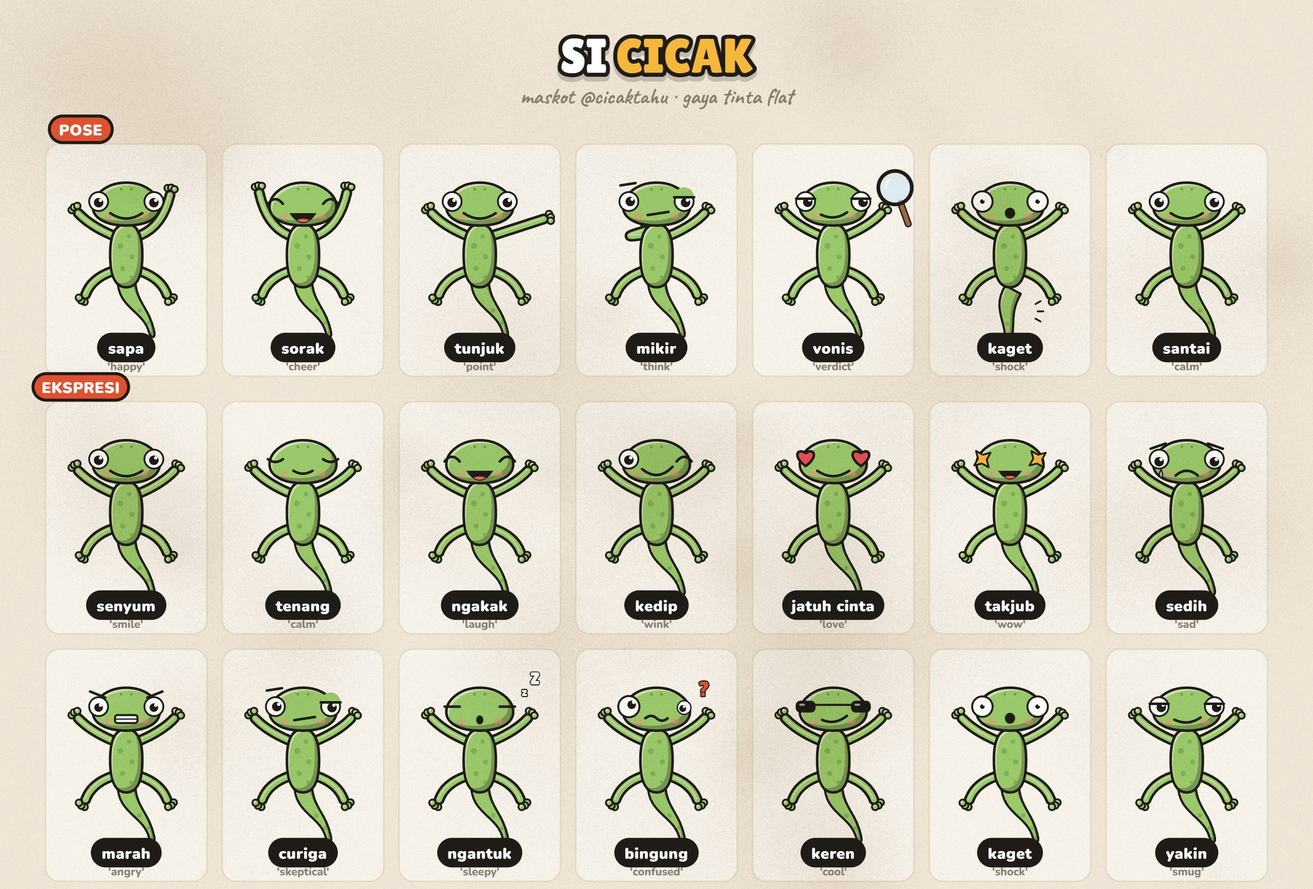
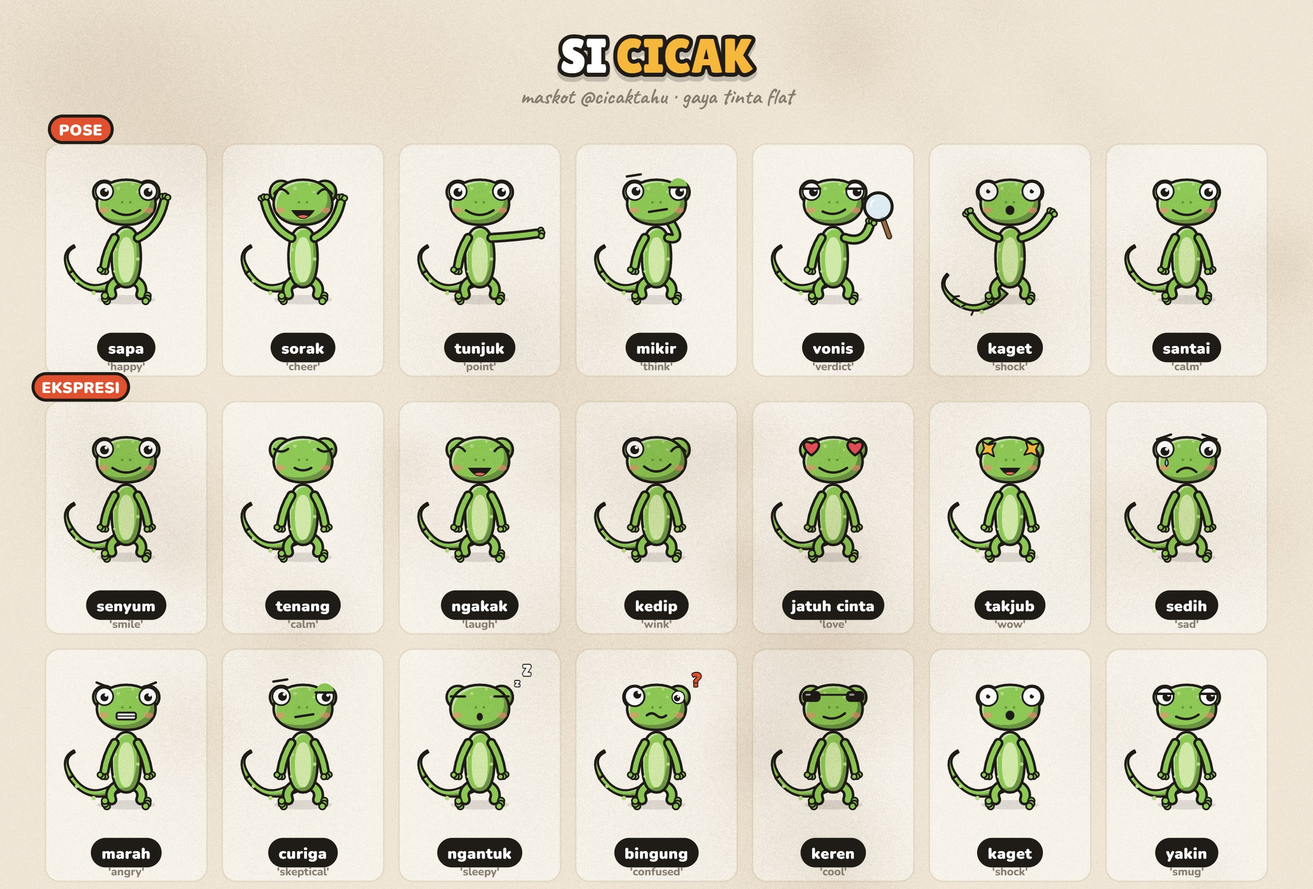
Redraw Si Tikus and Si Cicak after the new model sheets
Si Tikus: three-quarter head with a long snout, round black glasses, big ears, a slim build in a dark
suit with a white shirt and open collar (eksekutif is now the default outfit), black shoes and a tail
curling to the left. No necktie, as channels/tikus/RULES.md requires, although the reference shows one.
Si Cicak: an upright gecko facing the viewer, big eyes bulging from the sides of a round head, a wide
smile, a lighter belly, round toe pads and a long spotted tail; rot still turns it onto a wall.
Same poses, faces and parameters, so every topic renders unchanged. docs/mascots/*.png are the
reference sheets; the .jpg sheets, avatar and banner are regenerated by make_brand.py.

diff --git a/engine/tikus.js b/engine/tikus.js
@@ -1,24 +1,26 @@
-// Si Tikus: mascot of the politics & finance channel, drawn like a newspaper's editorial cartoon: a grey mouse
-// with grown-up proportions, thin navy lines, halftone-dot shading like cheap newsprint, and the look of a news
-// analyst (rolled-up shirt sleeves, glasses, a pen in the pocket). No necktie by default: a mouse in a suit and
-// tie echoes the "tikus berdasi" (corrupt official) meme, see channels/tikus/RULES.md.
+// Si Tikus: mascot of the politics & finance channel, a grey news-analyst mouse after the model sheet in
+// docs/mascots/tikus.png: a long pointed snout seen three-quarters to the right, big round ears, round black
+// glasses, a slim build in a dark suit, a long pink tail curling out to the left. Drawn like an editorial cartoon:
+// flat colours, halftone-dot shading, thin dark lines. Never a necktie: a mouse in a suit and tie echoes the
+// "tikus berdasi" (corrupt official) meme, see channels/tikus/RULES.md.
 //   tikus(x, y, s, pose, t, rot = 0, walk = null, faceKind = null, outfit = MOUSE.outfit)
-//   same poses and faces as cicak(); outfit: 'analis' (default: rolled-up shirt, glasses, pen) | 'reporter'
-//   (analis + PERS card on a lanyard) | 'profesor' (knitted vest over the shirt) | 'eksekutif' (blazer, open
-//   collar, still no tie) | 'kacamata' (glasses only) | 'none'
-// (0, 0) is the middle of the body; the feet are at y ~135, the ears reach y ~-222.
+//   same poses and faces as cicak(); outfit: 'eksekutif' (default: dark suit, white shirt, open collar, no tie)
+//   | 'reporter' (the suit plus a PERS card on a lanyard) | 'analis' (rolled-up shirt sleeves, pen in the pocket)
+//   | 'profesor' (knitted vest over the shirt) | 'kacamata' (glasses only) | 'none'
+// (0, 0) is the middle of the body; the feet are at y ~135, the ears reach y ~-236.
 
 const MOUSE = {
-  fur: '#A3A7B2', furLo: '#7E8391', muzzle: '#ECE8E0', pink: '#E7A7B0', nose: '#2A2F3F', line: '#1F2A44',
-  shirt: '#C9DBEF', shirtLo: '#9FB8D6', vest: '#D6A651', blazer: '#2E3B63', pen: '#C8312B', tail: '#C9A3A8',
-  outfit: 'analis',
+  fur: '#9A9DA6', furLo: '#7C7F89', muzzle: '#D2CEC6', pink: '#EFA3B1', nose: '#23252E', line: '#1E2130',
+  shirt: '#C9DBEF', shirtLo: '#9FB8D6', white: '#F4F3EF', suit: '#2C2F38', suitLo: '#3B3F4B', shoe: '#1B1C22',
+  vest: '#D6A651', pen: '#C8312B', tail: '#E6A3AE',
+  outfit: 'eksekutif',
 };
 
 // halftone dots for the shadow side (identical defs repeat harmlessly)
 const tikusDefs = () => `<defs><pattern id="tkDots" patternUnits="userSpaceOnUse" width="8" height="8" patternTransform="rotate(30)">` +
   `<circle cx="4" cy="4" r="1.9" fill="${MOUSE.line}" opacity="0.42"/></pattern></defs>`;
 
-// a shape in the editorial look: flat colour, halftone dots on the side away from the light, thin navy outline
+// a shape in the editorial look: flat colour, halftone dots on the side away from the light, thin dark outline
 function tkShape(d, fill, { depth = 10, w = 4.5, rot = 0 } = {}) {
   const id = `tk${VOL_N++}`, a = (-135 - rot) * Math.PI / 180, lx = Math.cos(a) * depth * 1.41, ly = Math.sin(a) * depth * 1.41;
   return `<defs><clipPath id="${id}a"><path d="${d}"/></clipPath><clipPath id="${id}b"><path d="${d}" transform="translate(${f(lx)} ${f(ly)})"/></clipPath></defs>` +
@@ -26,59 +28,66 @@ function tkShape(d, fill, { depth = 10, w = 4.5, rot = 0 } = {}) {
     (w ? `<path d="${d}" fill="none" stroke="${MOUSE.line}" stroke-width="${w}" stroke-linejoin="round"/>` : '');
 }
 
-// a limb as a navy-edged tube; the upper half can be sleeve, the lower half fur
-function tkLimb(x0, y0, kx, ky, x1, y1, w, upper, lower) {
+// a limb as a dark-edged tube; the upper half can be sleeve, the lower half fur; cuff: a rolled-up sleeve
+function tkLimb(x0, y0, kx, ky, x1, y1, w, upper, lower, cuff = upper !== lower) {
   const mx = 0.25 * x0 + 0.5 * kx + 0.25 * x1, my = 0.25 * y0 + 0.5 * ky + 0.25 * y1;
   const top = `M${f(x0)},${f(y0)} Q${f((x0 + kx) / 2)},${f((y0 + ky) / 2)} ${f(mx)},${f(my)}`;
   const bot = `M${f(mx)},${f(my)} Q${f((kx + x1) / 2)},${f((ky + y1) / 2)} ${f(x1)},${f(y1)}`;
   const tube = (d, col, ww) => `<path d="${d}" fill="none" stroke="${MOUSE.line}" stroke-width="${ww + 9}" stroke-linecap="round"/>` +
     `<path d="${d}" fill="none" stroke="${col}" stroke-width="${ww}" stroke-linecap="round"/>`;
   let s = tube(bot, lower, w * 0.85) + tube(top, upper, w);
-  if (upper !== lower) {  // the sleeve rolled up into a fat cuff just above the elbow
+  if (cuff) {  // the sleeve rolled up into a fat cuff just above the elbow
     const dx = x1 - x0, dy = y1 - y0, l = Math.hypot(dx, dy) || 1, ux = dx / l, uy = dy / l;
-    const cuff = `M${f(mx - ux * 9)},${f(my - uy * 9)} L${f(mx + ux * 2)},${f(my + uy * 2)}`;
-    s += `<path d="${cuff}" stroke="${MOUSE.line}" stroke-width="${f(w * 1.3 + 8)}" stroke-linecap="butt"/>` +
-      `<path d="${cuff}" stroke="${upper}" stroke-width="${f(w * 1.3)}" stroke-linecap="butt"/>`;
+    const c = `M${f(mx - ux * 9)},${f(my - uy * 9)} L${f(mx + ux * 2)},${f(my + uy * 2)}`;
+    s += `<path d="${c}" stroke="${MOUSE.line}" stroke-width="${f(w * 1.3 + 8)}" stroke-linecap="butt"/>` +
+      `<path d="${c}" stroke="${upper}" stroke-width="${f(w * 1.3)}" stroke-linecap="butt"/>`;
   }
   return s;
 }
 
+// round black glasses over the eyes at (-6, -132) and (42, -130), the far temple running back over the head
 function tikusGlasses() {
   const L = MOUSE.line;
-  return [-28, 28].map(x => `<circle cx="${x}" cy="-128" r="23" fill="#fff" fill-opacity="0.18" stroke="${L}" stroke-width="4.5"/>` +
-    `<path d="M${x - 12},-141 Q${x - 5},-146 ${x + 2},-144" fill="none" stroke="#fff" stroke-width="3" stroke-linecap="round" opacity="0.7"/>`).join('') +
-    `<path d="M-6,-131 Q0,-136 6,-131" fill="none" stroke="${L}" stroke-width="4" stroke-linecap="round"/>` +
-    `<path d="M-51,-132 L-68,-140 M51,-132 L68,-140" stroke="${L}" stroke-width="4" stroke-linecap="round"/>`;
+  return [[-6, -132, 25], [42, -130, 22]].map(([x, y, r]) => `<circle cx="${x}" cy="${y}" r="${r}" fill="#fff" fill-opacity="0.16" stroke="${L}" stroke-width="5.5"/>` +
+    `<path d="M${x - r * 0.55},${y - r * 0.5} Q${x - r * 0.2},${y - r * 0.75} ${x + r * 0.15},${y - r * 0.68}" fill="none" stroke="#fff" stroke-width="3" stroke-linecap="round" opacity="0.7"/>`).join('') +
+    `<path d="M19,-133 Q20,-139 21,-133" fill="none" stroke="${L}" stroke-width="5" stroke-linecap="round"/>` +
+    `<path d="M-31,-136 L-60,-148" stroke="${L}" stroke-width="5" stroke-linecap="round"/>`;
 }
 
 // clothes over the torso, per outfit (the torso path is passed in so the clothes can be clipped to it)
 function tikusClothes(outfit, torso) {
   const m = MOUSE, L = m.line;
   if (outfit === 'none' || outfit === 'kacamata') return '';
+  const suited = outfit === 'eksekutif' || outfit === 'reporter';
   const id = `tkc${VOL_N++}`;
   let s = `<defs><clipPath id="${id}"><path d="${torso}"/></clipPath></defs><g clip-path="url(#${id})">`;
-  s += tkShape('M-80,-60 L80,-60 L80,140 L-80,140 Z', m.shirt, { depth: 12, w: 0 });
-  s += `<path d="M0,-34 L0,96" stroke="${m.shirtLo}" stroke-width="4"/>` + [0, 30, 60].map(y => `<circle cx="7" cy="${y}" r="3.5" fill="${m.shirtLo}"/>`).join('');
-  // trousers and a belt, so the shirt reads as a shirt
-  s += tkShape('M-80,62 L80,62 L80,140 L-80,140 Z', '#4A5672', { depth: 8, w: 0 }) + `<path d="M-80,62 L80,62" stroke="${L}" stroke-width="4"/>` +
-    `<rect x="-80" y="56" width="160" height="12" fill="#2B2F3F"/><rect x="-9" y="54" width="18" height="16" rx="3" fill="${m.vest}" stroke="${L}" stroke-width="3"/>`;
-  if (outfit === 'profesor') {
-    s += tkShape('M-80,-30 L-14,-30 L0,24 L14,-30 L80,-30 L80,66 L-80,66 Z', m.vest, { depth: 10, w: 4 });
-    for (let x = -60; x <= 60; x += 14) if (Math.abs(x) > 18) s += `<line x1="${x}" y1="-14" x2="${x}" y2="56" stroke="#9C7426" stroke-width="2" opacity="0.4"/>`;
-  }
-  if (outfit === 'eksekutif') {
-    s += tkShape('M-80,-60 L-16,-40 L-4,40 L-6,140 L-80,140 Z', m.blazer, { depth: 8, w: 4 }) + tkShape('M80,-60 L16,-40 L4,40 L6,140 L80,140 Z', m.blazer, { depth: 8, w: 4 });
-    s += `<path d="M-16,-40 L-34,6 L-8,20 Z M16,-40 L34,6 L8,20 Z" fill="#46568A" stroke="${L}" stroke-width="3"/>`;
+  s += tkShape('M-80,-60 L80,-60 L80,140 L-80,140 Z', suited ? m.white : m.shirt, { depth: 12, w: 0 });
+  if (suited) {
+    // dark suit: trousers, then the jacket in two panels with wide lapels that open over the white shirt
+    s += tkShape('M-80,70 L80,70 L80,140 L-80,140 Z', m.suit, { depth: 8, w: 0 });
+    s += tkShape('M-80,-60 L-12,-44 L-2,38 L-4,96 L-80,96 Z', m.suit, { depth: 9, w: 4 }) + tkShape('M80,-60 L12,-44 L2,38 L4,96 L80,96 Z', m.suit, { depth: 9, w: 4 });
+    s += `<path d="M-12,-44 L-36,0 L-4,26 Z M12,-44 L36,0 L4,26 Z" fill="${m.suitLo}" stroke="${L}" stroke-width="3" stroke-linejoin="round"/>`;
+    s += [44, 70].map(y => `<circle cx="-8" cy="${y}" r="4.5" fill="${m.suitLo}" stroke="${L}" stroke-width="2.5"/>`).join('');
+    s += `<path d="M-46,52 L-24,50" stroke="${L}" stroke-width="3" opacity="0.6"/><path d="M26,52 L46,50" stroke="${L}" stroke-width="3" opacity="0.6"/>`;
+  } else {
+    s += `<path d="M0,-34 L0,96" stroke="${m.shirtLo}" stroke-width="4"/>` + [0, 30, 60].map(y => `<circle cx="7" cy="${y}" r="3.5" fill="${m.shirtLo}"/>`).join('');
+    // trousers and a belt, so the shirt reads as a shirt
+    s += tkShape('M-80,62 L80,62 L80,140 L-80,140 Z', '#4A5672', { depth: 8, w: 0 }) + `<path d="M-80,62 L80,62" stroke="${L}" stroke-width="4"/>` +
+      `<rect x="-80" y="56" width="160" height="12" fill="#2B2F3F"/><rect x="-9" y="54" width="18" height="16" rx="3" fill="${m.vest}" stroke="${L}" stroke-width="3"/>`;
+    if (outfit === 'profesor') {
+      s += tkShape('M-80,-30 L-14,-30 L0,24 L14,-30 L80,-30 L80,66 L-80,66 Z', m.vest, { depth: 10, w: 4 });
+      for (let x = -60; x <= 60; x += 14) if (Math.abs(x) > 18) s += `<line x1="${x}" y1="-14" x2="${x}" y2="56" stroke="#9C7426" stroke-width="2" opacity="0.4"/>`;
+    }
   }
   s += `</g>`;
   // open collar, no tie
-  s += `<path d="M-30,-44 L0,-20 L-8,-4 L-34,-30 Z M30,-44 L0,-20 L8,-4 L34,-30 Z" fill="#fff" stroke="${L}" stroke-width="4" stroke-linejoin="round"/>`;
-  if (outfit !== 'eksekutif') {  // shirt pocket with a pen, the analyst's badge of office
+  s += `<path d="M-26,-46 L0,-24 L-8,-8 L-30,-32 Z M26,-46 L0,-24 L8,-8 L30,-32 Z" fill="#fff" stroke="${L}" stroke-width="4" stroke-linejoin="round"/>`;
+  if (!suited) {  // shirt pocket with a pen, the analyst's badge of office
     s += `<path d="M14,10 L40,10 L40,38 Q27,44 14,38 Z" fill="${m.shirtLo}" stroke="${L}" stroke-width="3.5"/>`;
     s += `<rect x="20" y="-8" width="7" height="30" rx="3" fill="${m.pen}" stroke="${L}" stroke-width="3"/><rect x="20" y="-12" width="7" height="8" rx="3" fill="#E9E5DC" stroke="${L}" stroke-width="3"/>`;
   }
   if (outfit === 'reporter') {
-    s += `<path d="M-22,-40 Q-30,10 -12,46 M22,-40 Q30,10 12,46" fill="none" stroke="${m.pen}" stroke-width="5" stroke-linecap="round"/>`;
+    s += `<path d="M-20,-40 Q-28,10 -12,46 M20,-40 Q28,10 12,46" fill="none" stroke="${m.pen}" stroke-width="5" stroke-linecap="round"/>`;
     s += tkShape(rectD(-30, 40, 60, 70, 8), '#FFFFFF', { depth: 6, w: 4 }) + `<rect x="-30" y="40" width="60" height="18" rx="6" fill="${m.pen}"/>`;
     s += txt('PERS', 0, 50, 15, '#fff', 900) + `<circle cx="-12" cy="78" r="9" fill="${m.fur}"/><line x1="2" y1="74" x2="20" y2="74" stroke="#9BA1B3" stroke-width="4" stroke-linecap="round"/><line x1="2" y1="88" x2="16" y2="88" stroke="#9BA1B3" stroke-width="4" stroke-linecap="round"/>`;
   }
@@ -89,52 +98,55 @@ function tikus(x, y, s, pose = 'happy', t = 0, rot = 0, walk = null, faceKind = 
   const m = MOUSE, L = m.line, wave = 10 * Math.sin(t * 9), sway = 12 * Math.sin(t * 2.5);
   const bob = walk !== null ? Math.abs(Math.sin(walk)) * -8 : 0;
   const kind = faceKind || POSE_FACE[pose] || 'smile';
-  const sleeve = outfit === 'none' || outfit === 'kacamata' ? m.fur : outfit === 'eksekutif' ? m.blazer : m.shirt;
+  const bare = outfit === 'none' || outfit === 'kacamata', suited = outfit === 'eksekutif' || outfit === 'reporter';
+  const sleeve = bare ? m.fur : suited ? m.suit : m.shirt, leg = bare ? m.fur : suited ? m.suit : '#4A5672';
   let g = tikusDefs();
   g += `<ellipse cx="0" cy="${f(138 - bob)}" rx="84" ry="14" fill="${L}" opacity="0.14"/>`;
-  // tail: a lazy S-curve, straight up when shocked
-  const tail = pose === 'shock' ? 'M36,80 C70,60 92,-10 100,-90' : `M36,84 C110,110 146,40 ${f(118 + sway)},-6 C102,-44 132,-70 ${f(150 + sway)},-46`;
-  g += `<path d="${tail}" fill="none" stroke="${L}" stroke-width="12" stroke-linecap="round"/><path d="${tail}" fill="none" stroke="${m.tail}" stroke-width="6" stroke-linecap="round"/>`;
-  // legs and feet
+  // tail: a long S-curve out to the left, straight up when shocked
+  const tail = pose === 'shock' ? 'M-34,80 C-70,60 -92,-10 -100,-90' : `M-34,84 C-112,110 -150,40 ${f(-120 - sway)},-6 C-102,-44 -134,-72 ${f(-154 - sway)},-50`;
+  g += `<path d="${tail}" fill="none" stroke="${L}" stroke-width="13" stroke-linecap="round"/><path d="${tail}" fill="none" stroke="${m.tail}" stroke-width="7" stroke-linecap="round"/>`;
+  // legs and feet (black shoes with the suit and shirt outfits, bare pink feet otherwise)
   [-1, 1].forEach((sd, i) => {
-    const step = walk !== null ? 10 * Math.sin(walk + i * Math.PI) : 0;
-    g += tkLimb(sd * 22, 88, sd * 24, 108, sd * 26 + step, 124, 22, m.fur, m.fur);
-    g += tkShape(`M${f(sd * 30 + step - 26)},132 C${f(sd * 30 + step - 26)},118 ${f(sd * 30 + step + 26)},118 ${f(sd * 30 + step + 26)},132 Z`, m.pink, { depth: 4, w: 4 });
+    const step = walk !== null ? 10 * Math.sin(walk + i * Math.PI) : 0, fx = sd * 26 + step;
+    g += tkLimb(sd * 22, 88, sd * 24, 108, fx, 124, 22, leg, leg, false);
+    g += bare ? tkShape(`M${f(fx - 26)},132 C${f(fx - 26)},118 ${f(fx + 26)},118 ${f(fx + 26)},132 Z`, m.pink, { depth: 4, w: 4 })
+      : tkShape(`M${f(fx - 22)},134 C${f(fx - 24)},118 ${f(fx + 8)},114 ${f(fx + 26)},124 C${f(fx + 36)},128 ${f(fx + 34)},134 ${f(fx + 30)},134 Z`, m.shoe, { depth: 4, w: 4 });
   });
-  // torso, then clothes over it
-  const torso = 'M-46,-40 C-58,-10 -60,60 -50,96 C-40,112 40,112 50,96 C60,60 58,-10 46,-40 C30,-52 -30,-52 -46,-40 Z';
+  // a slim torso, then clothes over it
+  const torso = 'M-42,-44 C-54,-10 -56,60 -48,96 C-38,112 38,112 48,96 C56,60 54,-10 42,-44 C28,-56 -28,-56 -42,-44 Z';
   g += tkShape(torso, m.fur, { depth: 12, rot });
-  g += `<path d="M-30,20 C-30,0 30,0 30,20 C32,70 20,96 0,98 C-20,96 -32,70 -30,20 Z" fill="${m.muzzle}" opacity="${outfit === 'none' || outfit === 'kacamata' ? 1 : 0}"/>`;
+  g += `<path d="M-28,20 C-28,0 28,0 28,20 C30,70 18,96 0,98 C-18,96 -30,70 -28,20 Z" fill="${m.muzzle}" opacity="${bare ? 1 : 0}"/>`;
   g += tikusClothes(outfit, torso) + `<path d="${torso}" fill="none" stroke="${L}" stroke-width="4.5" stroke-linejoin="round"/>`;
   // arms: [hand x, hand y, elbow x, elbow y] for left then right
   const arms = {
-    happy: [[-62, 62, -70, 22], [f(96 + wave), -98, 86, -40]],
-    cheer: [[f(-96 - wave), -106, -86, -46], [f(96 + wave), -106, 86, -46]],
-    point: [[-62, 62, -70, 22], [142, -30, 96, -20]],
-    think: [[-18, -58, -84, -18], [62, 62, 70, 22]],
-    verdict: [[-62, 62, -70, 22], [106, -62, 92, -12]],
-    shock: [[-102, -102, -92, -40], [102, -102, 92, -40]],
-    calm: [[-62, 62, -70, 22], [62, 62, 70, 22]],
-  }[pose] || [[-62, 62, -70, 22], [62, 62, 70, 22]];
+    happy: [[-60, 62, -68, 22], [f(128 + wave), -150, 104, -64]],
+    cheer: [[f(-100 - wave), -128, -88, -52], [f(124 + wave), -150, 100, -60]],
+    point: [[-60, 62, -68, 22], [146, -30, 98, -20]],
+    think: [[60, 62, 68, 22], [40, -68, 92, -14]],
+    verdict: [[-60, 62, -68, 22], [104, -88, 94, -16]],
+    shock: [[-104, -112, -92, -44], [128, -150, 102, -60]],
+    calm: [[-60, 62, -68, 22], [60, 62, 68, 22]],
+  }[pose] || [[-60, 62, -68, 22], [60, 62, 68, 22]];
   arms.forEach(([hx, hy, kx, ky], i) => {
-    g += tkLimb(i ? 42 : -42, -26, kx, ky, +hx, hy, 19, sleeve, m.fur);
-    g += tkShape(circleD(+hx, hy, 12), m.pink, { depth: 3, w: 4 });
+    g += tkLimb(i ? 40 : -40, -28, kx, ky, +hx, hy, 19, sleeve, sleeve === m.suit ? m.suit : m.fur);
+    g += tkShape(circleD(+hx, hy, 12), m.fur, { depth: 3, w: 4 });
   });
-  // ears (perk up when shocked), head, muzzle
+  // ears behind the head (they perk up when shocked)
   const ear = pose === 'shock' ? -12 : 0;
-  [-1, 1].forEach(sd => {
-    g += tkShape(circleD(sd * 62, -182 + ear, 40), m.fur, { depth: 8 });
-    g += tkShape(circleD(sd * 60, -180 + ear, 24), m.pink, { depth: 5, w: 3 });
+  [[-40, -190, 40], [30, -206, 38]].forEach(([ex, ey, r]) => {
+    g += tkShape(circleD(ex, ey + ear, r), m.fur, { depth: 8 });
+    g += tkShape(circleD(ex + 2, ey + 2 + ear, r * 0.6), m.pink, { depth: 5, w: 3 });
   });
-  g += tkShape(circleD(0, -118, 74), m.fur, { depth: 14, rot });
-  g += tkShape('M-44,-86 C-44,-112 44,-112 44,-86 C44,-62 22,-50 0,-50 C-22,-50 -44,-62 -44,-86 Z', m.muzzle, { depth: 6, w: 3.5 });
-  g += face(kind, { lx: -28, rx: 28, ey: -130, er: 16, my: -66, mw: 16, skin: m.fur, style: 'ink', ink: L, weight: 5 }, t);
+  // head in three-quarter view: round at the back, a long snout to the right with the nose at its tip
+  g += tkShape('M-64,-122 C-66,-172 -30,-198 6,-198 C44,-198 66,-174 76,-148 C84,-130 98,-114 108,-104 C116,-94 110,-84 98,-84 C72,-80 40,-58 2,-56 C-40,-56 -64,-80 -64,-122 Z', m.fur, { depth: 14, rot });
+  g += `<path d="M-30,-78 C-12,-94 40,-100 74,-96 C88,-94 98,-90 100,-86 C80,-78 50,-62 8,-60 C-14,-60 -32,-66 -30,-78 Z" fill="${m.muzzle}"/>`;
+  g += G('translate(18 0)', 1, face(kind, { lx: -24, rx: 24, ey: -132, er: 12, my: -74, mw: 15, skin: m.fur, style: 'soft', ink: L, weight: 9 }, t));
   if (outfit !== 'none' && kind !== 'cool') g += tikusGlasses();
-  g += `<path d="M-11,-100 C-11,-108 11,-108 11,-100 C11,-92 4,-88 0,-88 C-4,-88 -11,-92 -11,-100 Z" fill="${m.nose}"/><circle cx="-4" cy="-102" r="3" fill="#fff" opacity="0.7"/>`;
+  g += `<circle cx="108" cy="-96" r="11" fill="${m.nose}"/><circle cx="104" cy="-100" r="3.5" fill="#fff" opacity="0.7"/>`;
   if (['smile', 'calm', 'wink', 'love', 'cool', 'smug', 'skeptical'].includes(kind))  // two small front teeth
-    g += `<path d="M-7,-60 L-7,-52 L7,-52 L7,-60" fill="#fff" stroke="${L}" stroke-width="2.5"/><line x1="0" y1="-60" x2="0" y2="-52" stroke="${L}" stroke-width="2"/>`;
-  [[-1, -92, -1], [-1, -84, 0], [1, -92, -1], [1, -84, 0]].forEach(([sd, wy, tilt]) =>
-    g += `<line x1="${sd * 40}" y1="${wy}" x2="${sd * 78}" y2="${wy + tilt * 8}" stroke="${L}" stroke-width="2.5" stroke-linecap="round" opacity="0.7"/>`);
-  if (pose === 'verdict') g += magnifier(124, -100, 32, -20, L);
+    g += `<path d="M12,-68 L12,-60 L24,-60 L24,-68" fill="#fff" stroke="${L}" stroke-width="2.5"/><line x1="18" y1="-68" x2="18" y2="-60" stroke="${L}" stroke-width="2"/>`;
+  [[-112, -10], [-98, 0], [-84, 10]].forEach(([wy, tilt]) =>
+    g += `<line x1="86" y1="${wy + 10}" x2="136" y2="${wy + tilt}" stroke="${L}" stroke-width="2.5" stroke-linecap="round" opacity="0.7"/>`);
+  if (pose === 'verdict') g += magnifier(126, -152, 30, -20, L);
   return G(T(x, y + bob, s, rot), 1, g);
 }

diff --git a/engine/cicak.js b/engine/cicak.js
@@ -1,54 +1,67 @@
-// Si Cicak: mascot of @cicaktahu. A house gecko seen from above, the way you see one on the wall,
-// so it can crawl in any direction (rot) across the picture.
+// Si Cicak: mascot of @cicaktahu, a house gecko standing up and facing the viewer, after the model sheet in
+// docs/mascots/cicak.png: a wide round head with big eyes bulging from its top corners, a wide smile, a slim
+// body with a lighter belly, thin limbs with round toe pads and a long tail curling out to the left.
 //   cicak(x, y, s, pose, t, rot = 0, walk = null, faceKind = null)
 //   pose: 'happy' (waves) | 'cheer' (both arms up) | 'point' (points right) | 'think' (hand to chin)
 //         | 'verdict' (magnifier) | 'shock' (tail drops off) | 'calm'
 //   faceKind: any of FACES (engine/faces.js); default depends on the pose (POSE_FACE)
 //   walk: a phase in radians; when set the legs step (use t * speed)
+//   rot turns the whole gecko, so it can still run along a wall or hang from a ceiling.
+// (0, 0) is the middle of the body; the feet are at y ~134, the head reaches y ~-192.
 
-const GECKO = { body: '#9CCB6B', dark: '#6E9E46', spot: '#7FB255' };
+const GECKO = { body: '#8FCB57', belly: '#D3EBAA', dark: '#5E9A35', spot: '#B6DC86' };
+
+// three round toe pads fanned around (x, y), pointing at angle a (radians)
+function geckoToes(x, y, a, r = 9) {
+  return [-0.55, 0, 0.55].map(d => {
+    const tx = x + 15 * Math.cos(a + d), ty = y + 15 * Math.sin(a + d);
+    return `<circle cx="${f(tx)}" cy="${f(ty)}" r="${r}" fill="${GECKO.body}" ${stroke(4.5)}/>`;
+  }).join('');
+}
 
 function cicak(x, y, s, pose = 'happy', t = 0, rot = 0, walk = null, faceKind = null) {
-  const c = GECKO.body, sway = Math.sin(t * 3) * 6 + (walk !== null ? Math.sin(walk) * 10 : 0);
-  const wave = 10 * Math.sin(t * 9);
-  // shading: light from the top left of the screen, whichever way the gecko is turned
-  const la = (-135 - rot) * Math.PI / 180, lx = Math.cos(la), ly = Math.sin(la), hi = mix(c, '#fff', 0.5);
-  let g = '';
-  // tail (drops off when shocked, a real gecko trick)
-  const tailTurn = pose === 'shock' ? 28 : sway;
-  const tail = vol('M-24,80 C-30,160 40,170 52,232 C56,252 70,250 66,228 C56,160 22,150 24,80 Z', c, { depth: 9, w: 6, rot: rot + tailTurn }) +
-    `<circle cx="30" cy="170" r="6" fill="${GECKO.spot}"/><circle cx="52" cy="206" r="5" fill="${GECKO.spot}"/>`;
-  g += pose === 'shock' ? G(T(46, 40, 1, 28), 1, tail) + `<path d="M70,150 l14,-8 M76,170 l16,0 M70,190 l14,8" ${stroke(5)}/>` : G(`rotate(${f(sway)} 0 80)`, 1, tail);
-  // legs with sticky toe pads; diagonal pairs step together when walking
-  const toes = (x0, y0, a) => [-0.5, 0, 0.5].map(d => {
-    const tx = x0 + 20 * Math.cos(a + d), ty = y0 + 20 * Math.sin(a + d);
-    return `<circle cx="${f(tx)}" cy="${f(ty)}" r="9" fill="${c}" ${stroke(5)}/><circle cx="${f(tx + lx * 3.5)}" cy="${f(ty + ly * 3.5)}" r="3.2" fill="${hi}"/>`;
-  }).join('');
-  const legs = [
-    [-1, -40, -100, -66, -132, -100, -2.2], [1, -40, 100, -66, 132, -100, -0.9],
-    [-1, 60, -96, 80, -112, 124, 2.2], [1, 60, 96, 80, 112, 124, 0.9],
-  ];
-  // front-leg overrides per pose: [end x, end y, toe angle, knee x, knee y]
-  const front = {
-    happy: { 1: [128 + wave, -150, -1.4] },
-    cheer: { 0: [-128 - wave, -156, -1.7], 1: [128 + wave, -156, -1.4] },
-    point: { 1: [176, -84, -0.25, 120, -66] },
-    think: { 0: [-30, -52, -1.3, -110, -30] },
-  }[walk === null ? pose : ''] || {};
-  legs.forEach(([sd, y0, kx, ky, ex, ey, a], i) => {
-    let ex2 = ex, ey2 = ey, a2 = a, kx2 = kx, ky2 = ky;
-    if (walk !== null) ey2 += 22 * Math.sin(walk + (i === 0 || i === 3 ? 0 : Math.PI));
-    else if (front[i]) [ex2, ey2, a2, kx2 = kx, ky2 = ky] = front[i];
-    const leg = `M${sd * 40},${y0} Q${kx2},${ky2} ${f(ex2)},${f(ey2)}`;
-    g += limb(leg, 16, c) + `<path d="${leg}" fill="none" stroke="${hi}" stroke-width="4" stroke-linecap="round" opacity="0.75" transform="translate(${f(lx * 3)} ${f(ly * 3)})"/>` + toes(ex2, ey2, a2);
+  const c = GECKO.body, sway = Math.sin(t * 3) * 6 + (walk !== null ? Math.sin(walk) * 8 : 0);
+  const wave = 10 * Math.sin(t * 9), bob = walk !== null ? Math.abs(Math.sin(walk)) * -6 : 0;
+  let g = `<ellipse cx="0" cy="${f(138 - bob)}" rx="80" ry="13" fill="${C.ink}" opacity="0.12"/>`;
+  // tail: a long curl out to the left; it drops off when shocked, a real gecko trick
+  const tail = vol(taper(-14, 84, -104, 132, -150, 52, 30, 14), c, { depth: 8, w: 6, rot }) +
+    vol(taper(-150, 52, -176, -2, -136, -18, 14, 6), c, { depth: 5, w: 6, rot }) +
+    `<circle cx="-92" cy="114" r="6" fill="${GECKO.spot}"/><circle cx="-136" cy="78" r="5" fill="${GECKO.spot}"/>`;
+  g += pose === 'shock' ? G(T(-40, 30, 1, -24), 1, tail) + `<path d="M-120,150 l-14,8 M-100,166 l-6,14 M-140,128 l-16,2" ${stroke(5)}/>`
+    : G(`rotate(${f(sway)} -14 84)`, 1, tail);
+  // legs, bent a little outward, stepping when walking
+  [-1, 1].forEach((sd, i) => {
+    const step = walk !== null ? 9 * Math.sin(walk + i * Math.PI) : 0, lift = walk !== null ? Math.max(0, 10 * Math.sin(walk + i * Math.PI)) : 0;
+    const fx = sd * 40 + step, fy = 124 - lift;
+    g += limb(`M${sd * 22},${f(84 + bob)} Q${sd * 50},${f(98 + bob)} ${f(fx)},${f(fy + bob)}`, 17, c) + geckoToes(fx + sd * 4, fy + 6 + bob, sd > 0 ? 0.35 : Math.PI - 0.35);
   });
-  g += vol('M0,-70 C40,-70 46,-20 44,30 C42,80 26,104 0,104 C-26,104 -42,80 -44,30 C-46,-20 -40,-70 0,-70 Z', c, { depth: 12, rot });
-  [[-16, -10, 8], [16, 20, 7], [-10, 52, 7], [14, 76, 5], [8, -36, 6]].forEach(([sx, sy, r]) => g += `<circle cx="${sx}" cy="${sy}" r="${r}" fill="${GECKO.spot}"/>`);
-  // wide flat head with a rounded snout, eyes bulging out of the sides
-  g += vol('M0,-184 C54,-184 92,-150 92,-118 C92,-86 56,-66 0,-66 C-56,-66 -92,-86 -92,-118 C-92,-150 -54,-184 0,-184 Z', c, { depth: 14, rot });
-  g += `<circle cx="-14" cy="-166" r="3.5" fill="${GECKO.dark}"/><circle cx="14" cy="-166" r="3.5" fill="${GECKO.dark}"/>`;
-  g += `<ellipse cx="-50" cy="-92" rx="12" ry="7" fill="${C.cheek}" opacity="0.5"/><ellipse cx="50" cy="-92" rx="12" ry="7" fill="${C.cheek}" opacity="0.5"/>`;
-  g += face(faceKind || POSE_FACE[pose] || 'smile', { lx: -76, rx: 76, ey: -132, er: 26, my: -100, mw: 44, skin: c }, t);
-  if (pose === 'verdict') g += magnifier(170, -170, 46, -20);
+  // body with a lighter belly and a few spots
+  g += G(T(0, bob), 1, vol('M0,-62 C30,-62 42,-20 40,30 C38,84 22,104 0,104 C-22,104 -38,84 -40,30 C-42,-20 -30,-62 0,-62 Z', c, { depth: 12, rot }) +
+    `<path d="M0,-34 C17,-34 24,0 22,38 C20,74 12,90 0,90 C-12,90 -20,74 -22,38 C-24,0 -17,-34 0,-34 Z" fill="${GECKO.belly}"/>` +
+    [[-30, 0, 5], [32, 26, 5], [-32, 60, 4]].map(([sx, sy, r]) => `<circle cx="${sx}" cy="${sy}" r="${r}" fill="${GECKO.spot}"/>`).join(''));
+  // arms: [hand x, hand y, elbow x, elbow y, finger angle] for left then right
+  const arms = {
+    happy: [[-60, 46, -54, 4, 1.9], [f(112 + wave), -132, 88, -60, -1.4]],
+    cheer: [[f(-112 - wave), -130, -88, -60, -1.8], [f(112 + wave), -130, 88, -60, -1.4]],
+    point: [[-60, 46, -54, 4, 1.9], [156, -44, 104, -36, -0.1]],
+    think: [[-60, 46, -54, 4, 1.9], [26, -92, 80, -20, -2.2]],
+    verdict: [[-60, 46, -54, 4, 1.9], [100, -64, 84, -14, -1.2]],
+    shock: [[-108, -92, -82, -46, -2.2], [108, -92, 82, -46, -0.9]],
+    calm: [[-60, 46, -54, 4, 1.9], [60, 46, 54, 4, 1.2]],
+  }[walk === null ? pose : 'calm'] || [[-60, 46, -54, 4, 1.9], [60, 46, 54, 4, 1.2]];
+  arms.forEach(([hx, hy, kx, ky, a], i) => {
+    const sx = i ? 32 : -32, swing = walk !== null ? 10 * Math.sin(walk + (i ? 0 : Math.PI)) : 0;
+    g += limb(`M${sx},${f(-32 + bob)} Q${kx},${f(ky + bob)} ${f(+hx + swing)},${f(+hy + bob)}`, 14, c) + geckoToes(+hx + swing, +hy + bob, a, 7.5);
+  });
+  // a wide round head; the eyes bulge out of its top corners
+  const hy = bob;
+  g += G(T(0, hy), 1,
+    vol(circleD(-60, -158, 31), c, { depth: 8, rot }) + vol(circleD(60, -158, 31), c, { depth: 8, rot }) +
+    vol('M0,-192 C44,-192 74,-170 80,-136 C86,-98 54,-68 0,-68 C-54,-68 -86,-98 -80,-136 C-74,-170 -44,-192 0,-192 Z', c, { depth: 14, rot }) +
+    `<circle cx="-11" cy="-130" r="3.5" fill="${GECKO.dark}"/><circle cx="11" cy="-130" r="3.5" fill="${GECKO.dark}"/>` +
+    `<ellipse cx="-62" cy="-108" rx="13" ry="8" fill="${C.cheek}" opacity="0.55"/><ellipse cx="62" cy="-108" rx="13" ry="8" fill="${C.cheek}" opacity="0.55"/>` +
+    [[-22, -168, 5], [18, -180, 4], [30, -158, 3.5]].map(([sx, sy, r]) => `<circle cx="${sx}" cy="${sy}" r="${r}" fill="${GECKO.spot}"/>`).join('') +
+    face(faceKind || POSE_FACE[pose] || 'smile', { lx: -60, rx: 60, ey: -160, er: 24, my: -108, mw: 38, skin: c }, t));
+  if (pose === 'verdict') g += magnifier(124, -118 + bob, 38, -20);
   return G(T(x, y, s, rot), 1, g);
 }

diff --git a/brand/brand.js b/brand/brand.js
@@ -126,14 +126,14 @@ async function renderOutfits() {
   await setupCanvas(W, H, { light: false, texture: false });
   let s = `<rect width="${W}" height="${H}" fill="#E9E5DC"/>`, ui = '';
   ui += titleText('PILIHAN *PAKAIAN* SI TIKUS', 1300, 100, 84, 1600, 14);
-  const opts = [['analis', 'analis', 'default: kemeja, kacamata, pulpen'], ['reporter', 'reporter', 'kartu PERS + tali'],
-    ['profesor', 'profesor', 'rompi rajut'], ['eksekutif', 'eksekutif', 'jas, kerah terbuka, tanpa dasi'], ['kacamata', 'kacamata', '']];
+  const opts = [['eksekutif', 'eksekutif', 'default: jas, kerah terbuka, tanpa dasi'], ['reporter', 'reporter', 'jas + kartu PERS'],
+    ['analis', 'analis', 'kemeja, lengan digulung, pulpen'], ['profesor', 'profesor', 'rompi rajut'], ['kacamata', 'kacamata', '']];
   opts.forEach(([key, label, note], i) => {
     const cx = 290 + i * 505;
     s += `<rect x="${cx - 230}" y="200" width="460" height="1120" rx="34" fill="#fff" opacity="0.6"/>`;
     s += tikus(cx, 520, 0.95, 'point', 1.3, 0, null, 'smile', key);
     s += tikus(cx, 1010, 0.95, 'verdict', 1.3, 0, null, 'smug', key);
-    ui += pill(label.toUpperCase(), cx, 1230, 34, key === 'analis' ? C.accent : '#34416A');
+    ui += pill(label.toUpperCase(), cx, 1230, 34, key === 'eksekutif' ? C.accent : '#34416A');
     if (note) ui += hand(note, cx, 1290, 34, C.muted);
   });
   put(s, ui);

diff --git a/AGENTS.md b/AGENTS.md
@@ -219,7 +219,7 @@ its silence is trimmed and its loudness matched to the sound it replaces. Record
 | `vol(d, fill, opts)`, `circleD`, `rectD` | draws a shape (path `d`) with volume in the theme's style: cel shadow + highlight + ink outline (paper), round gradient (newsprint), hatched shadow (notebook) (`{depth, w, shine}`). Use it for every prop instead of a flat `fill` |
 | `cutaway(t, t0, shell, opts)` | lifts a cover (`shell` SVG) off from `t0` to show what is drawn under it, back from `t1` (`{t1, dx, dy, rot, dur, cx, cy}`) |
 | `sparkle`, `snowflake`, `mix(hexA, hexB, p)`, `rnd(i)`, `lerp`, `clamp`, `measure` | small utilities |
-| `cicak(x, y, s, pose, t, rot, walk, faceKind)` | Si Cicak (top-down view, crawls any direction with `rot`; `walk = t * 11` animates legs). See "Mascots" below |
+| `cicak(x, y, s, pose, t, rot, walk, faceKind)` | Si Cicak (stands upright facing the viewer; `rot` turns it onto a wall or ceiling; `walk = t * 11` animates legs). See "Mascots" below |
 | `face(kind, geometry, t)`, `eye`, `eyePair`, `magnifier` | shared expressions and props (`engine/faces.js`) for drawing new characters |
 
 ## Prop library (`engine/props.js`)
@@ -260,8 +260,8 @@ All mascots share one API: `name(x, y, s, pose, t, rot = 0, walk = null, faceKin
 
 | mascot | file | channel | art style |
 |---|---|---|---|
-| `cicak` — Si Cicak, house gecko | `engine/cicak.js` | **@cicaktahu** (this channel) | **flat ink**: thick ink outlines, flat colours, warm paper |
-| `tikus` — Si Tikus, news-analyst mouse | `engine/tikus.js` | another channel | **editorial cartoon**: grey mouse, thin navy lines, halftone-dot shading like newsprint, rolled-up shirt, glasses, no tie |
+| `cicak` — Si Cicak, house gecko | `engine/cicak.js` | **@cicaktahu** (this channel) | **flat ink**: thick ink outlines, flat colours, warm paper; an upright gecko with big eyes on the sides of its head, after `docs/mascots/cicak.png` |
+| `tikus` — Si Tikus, news-analyst mouse | `engine/tikus.js` | another channel | **editorial cartoon**: grey mouse with a long snout, round glasses, a dark suit with an open collar (never a tie), halftone-dot shading like newsprint, after `docs/mascots/tikus.png` |
 | `stickman` — stick figure with a green head | `engine/stickman.js` | another channel | **doodle**: wobbly double pen lines that boil 8×/s, marker fill off the outline, hatching, lined notebook |
 
 Each channel's videos must match its mascot's style: props drawn for a Si Tikus video get flat colours, thin

diff --git a/channels/tikus/RULES.md b/channels/tikus/RULES.md
@@ -20,10 +20,11 @@ These topics carry legal and reputational risk. The rules below are stricter tha
   "diduga" claims need a named, reputable source. No insults, nicknames or mockery of real people.
 - Do **not** use the mascot or the word "tikus" as a joke about corruption or about any real person or office
   (in Indonesia "tikus" is slang for a corrupt official); Si Tikus is a friendly explainer.
-- Si Tikus is drawn as a **news analyst** in an editorial-cartoon style (grey mouse, thin navy lines, halftone
-  shading) and wears the **analis** outfit by default (rolled-up shirt, glasses, a pen in the pocket, no tie:
-  `tikus(..., outfit)`, default in `MOUSE.outfit`). It never wears a necktie: a mouse in a suit and tie echoes
-  the "tikus berdasi" (koruptor) meme (`eksekutif` is a blazer with an open collar). Keep it reading as a friendly analyst: never draw it with money bags, cash under the table, a mask, bars or a prison,
+- Si Tikus is drawn as a **news analyst** after the model sheet `docs/mascots/tikus.png` (grey mouse with a long
+  snout, round glasses, editorial-cartoon lines and halftone shading) and wears the **eksekutif** outfit by default
+  (dark suit, white shirt, open collar, no tie: `tikus(..., outfit)`, default in `MOUSE.outfit`; `analis` is the
+  rolled-up shirt with a pen). It never wears a necktie, even where the model sheet shows one: a mouse in a suit
+  and tie echoes the "tikus berdasi" (koruptor) meme. Keep it reading as a friendly analyst: never draw it with money bags, cash under the table, a mask, bars or a prison,
   sneaking or grabbing poses, or next to officials, parliament or party symbols; keep its faces friendly
   (`smile`, `skeptical`, `smug`, `wow`), never sly or greedy. For `cek fakta` videos the `reporter` outfit
   (PERS card on a lanyard) fits better; `profesor` (knitted vest) works for long explainers.
